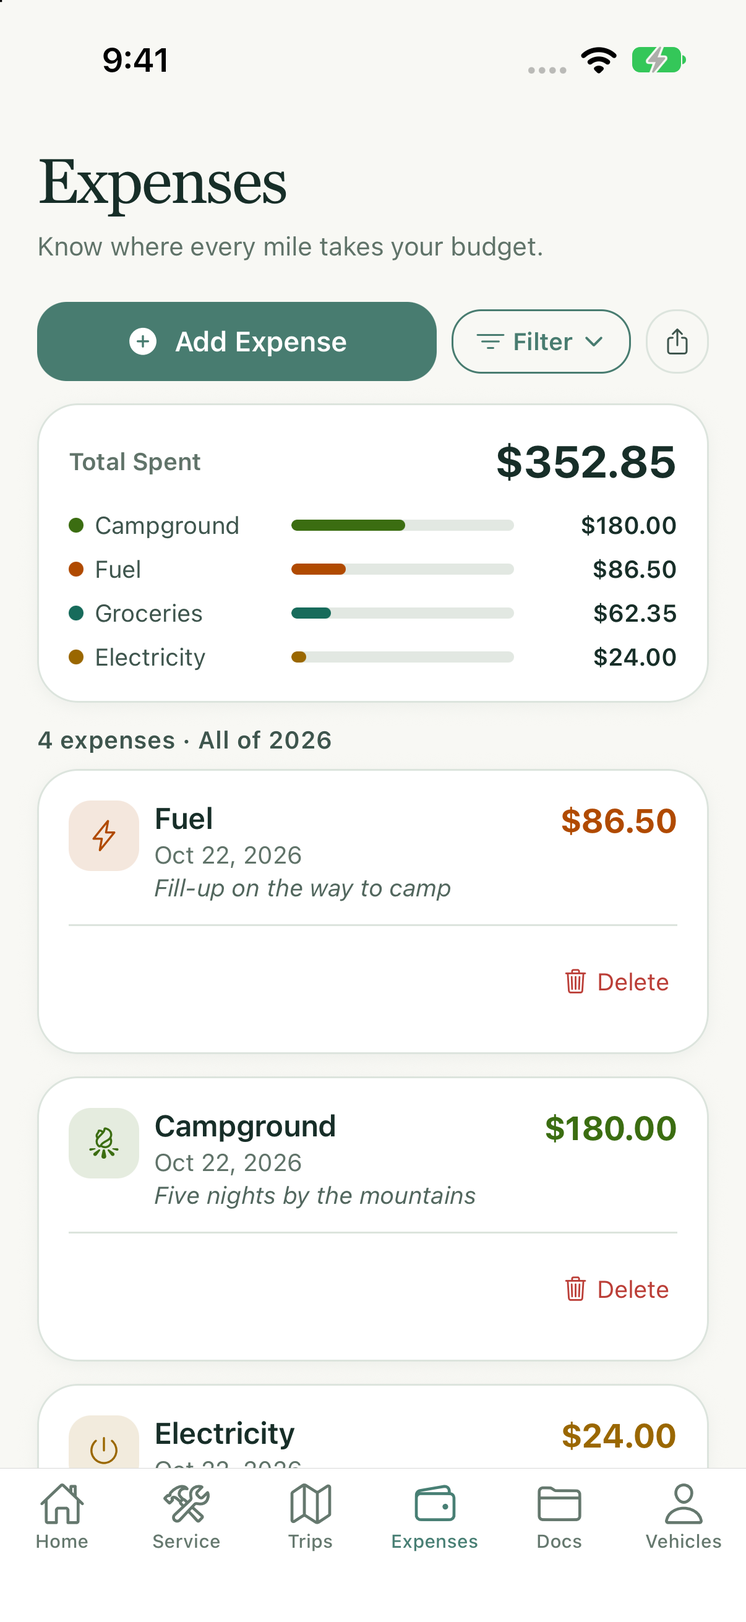
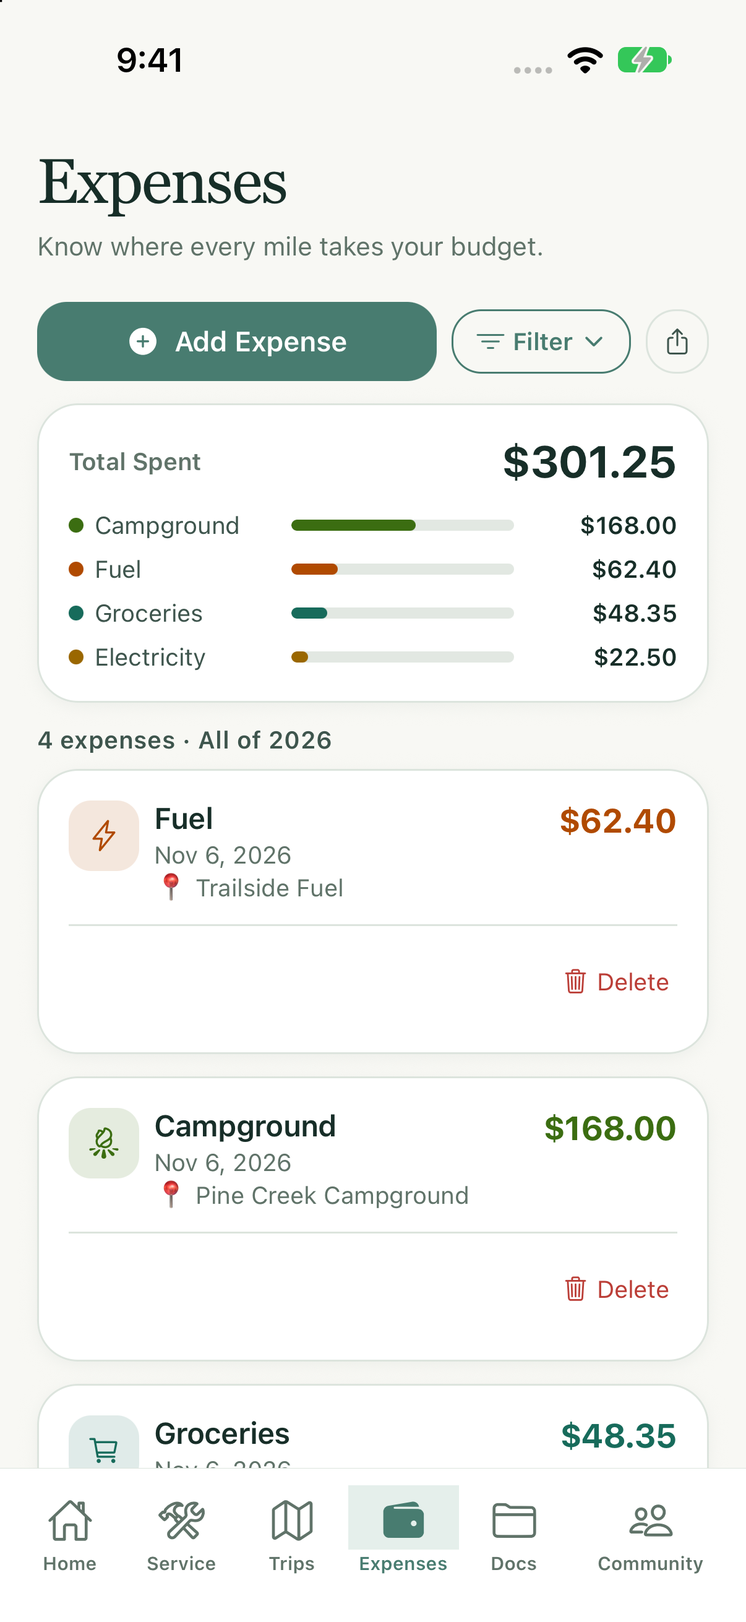
Refresh upcoming release features and screenshots for 10553

diff --git a/index.html b/index.html
@@ -1,16 +1,17 @@
 <!doctype html>
-<html lang="en"><head><meta charset="utf-8"><meta name="viewport" content="width=device-width,initial-scale=1"><meta name="description" content="Meet the next TrekAssistant release: RV maintenance and expense tracking alongside park adventures and trip memories."><title>TrekAssistant — Your rig, organized.</title><link rel="icon" href="assets/icon.png"><link rel="stylesheet" href="style.css?v=20261022d"></head><body>
+<html lang="en"><head><meta charset="utf-8"><meta name="viewport" content="width=device-width,initial-scale=1"><meta name="description" content="Meet the next TrekAssistant release: RV care, AI fuel reading, Park Stories and a Community of travelers."><title>TrekAssistant — Your rig, organized.</title><link rel="icon" href="assets/icon.png"><link rel="stylesheet" href="style.css?v=20261106"></head><body>
 <div class="review">COMING IN THE NEXT RELEASE <span>RV care. Everyday costs. Lasting memories.</span></div>
-<header class="nav"><a class="brand" href="#"><img src="assets/icon.png" alt=""><span>TrekAssistant</span></a><nav aria-label="Main navigation"><a href="#features">The app</a><a href="#stories">Park stories</a><a href="#storage">Your data</a><a href="#pricing">Pricing</a></nav><a class="button small" href="#tour">Take a look <span aria-hidden="true">↗</span></a></header>
+<header class="nav"><a class="brand" href="#"><img src="assets/icon.png" alt=""><span>TrekAssistant</span></a><nav aria-label="Main navigation"><a href="#features">The app</a><a href="#stories">Park stories</a><a href="#community">Community</a><a href="#storage">Your data</a><a href="#pricing">Pricing</a></nav><a class="button small" href="#tour">Take a look <span aria-hidden="true">↗</span></a></header>
 <main>
-<section class="hero"><div class="hero-copy"><p class="eyebrow">THE RV APP FOR LIFE ON THE ROAD</p><div class="hero-benefits" aria-label="Core app features"><span>Maintenance logs</span><span>Expense tracking</span><span>Trip memories</span></div><h1>Care for your rig.<br> <em>Keep the memories.</em></h1><p class="intro">Track maintenance. Know what you spend. Capture the places and moments that make every trip yours—all in one RV app.</p><div class="actions"><a class="button gold" href="#tour">See the app in action <span aria-hidden="true">↗</span></a></div><p class="hero-note">For weekend adventures, long stays, and everywhere in between.</p></div><div class="hero-art"><img class="scenery" src="assets/landscape.jpg" alt="A colorful hot spring beneath a wide blue sky"><div class="hero-screen hero-expense"><span class="screen-tag">KNOW WHAT YOU SPEND</span><div class="phone"><img src="assets/expenses-current.png" alt="TrekAssistant expense tracking with fuel, campground, electricity and grocery costs"></div></div><div class="hero-screen hero-trip"><span class="screen-tag">REMEMBER WHERE YOU’VE BEEN</span><div class="phone"><img src="assets/trips-current.png" alt="A photo-led TrekAssistant trip with park name, site details and the Explore this park challenge"></div></div><div class="floating-note"><span class="sun">✦</span><div><strong>Your service history.<br> Your travel story.</strong><br> One place for both.</div></div></div></section>
+<section class="hero"><div class="hero-copy"><p class="eyebrow">THE RV APP FOR LIFE ON THE ROAD</p><div class="hero-benefits" aria-label="Core app features"><span>Maintenance logs</span><span>Expense tracking</span><span>Trip memories</span></div><h1>Care for your rig.<br> <em>Keep the memories.</em></h1><p class="intro">Track maintenance. Know what you spend. Capture the places and moments that make every trip yours—all in one RV app.</p><div class="actions"><a class="button gold" href="#tour">See the app in action <span aria-hidden="true">↗</span></a></div><p class="hero-note">For weekend adventures, long stays, and everywhere in between.</p></div><div class="hero-art"><img class="scenery" src="assets/landscape.jpg" alt="A colorful hot spring beneath a wide blue sky"><div class="hero-screen hero-expense"><span class="screen-tag">KNOW WHAT YOU SPEND</span><div class="phone"><img src="assets/expenses-current.png?v=20261106" alt="TrekAssistant expense tracking with fuel, campground, electricity and grocery costs"></div></div><div class="hero-screen hero-trip"><span class="screen-tag">REMEMBER WHERE YOU’VE BEEN</span><div class="phone"><img src="assets/trips-current.png?v=20261106" alt="A photo-led TrekAssistant trip with park name, site details and Create a Park Story"></div></div><div class="floating-note"><span class="sun">✦</span><div><strong>Your service history.<br> Your travel story.</strong><br> One place for both.</div></div></div></section>
 <div class="feature-line"><span>Log the maintenance</span><i></i><span>Track the expenses</span><i></i><span>Keep the memories</span></div>
-<section id="features" class="section intro-section"><p class="eyebrow">A LITTLE ORGANIZATION. A LOT MORE FREEDOM.</p><h2>For the rig you rely on.<br> And the trips you live for.</h2><p class="section-intro">A useful record of what your RV needs. A clear picture of what life on the road costs. A personal story of the places you’ve explored.</p><div class="editorial-grid"><article><span class="number">01 / MAINTENANCE</span><h3>Know your rig’s<br> story.</h3><p>Log service, mileage, repairs, and receipts. See what was done and when, set date-based reminders, and keep mileage-based maintenance in view.</p><p class="feature-payoff">A clear history for the miles ahead.</p><a href="#tour" data-select="service">See maintenance logs <span>↗</span></a></article><article><span class="number">02 / EXPENSES</span><h3>Know the cost<br> of the journey.</h3><p>Track fuel, campsites, electricity, groceries, and repairs. Keep receipts with expenses, review category totals, and use recorded fill-ups for fuel insights.</p><p class="feature-payoff">The everyday costs of RV life, in focus.</p><a href="#tour" data-select="expenses">See expense tracking <span>↗</span></a></article><article><span class="number">03 / TRIP MEMORIES</span><h3>Remember why<br> you went.</h3><p>Keep park details and favorite photos with each trip. Explore through photo challenges, replay your stay as a presentation, and share a photo story.</p><p class="feature-payoff">A personal record of the places you love.</p><a href="#tour" data-select="trips">See trips and memories <span>↗</span></a></article></div></section>
-<section id="tour" class="tour section"><div class="tour-copy"><p class="eyebrow">A LOOK INSIDE</p><h2>From the next service<br> to your favorite stay.</h2><p id="tour-description">Open your active trip, log a service, or add an expense from Home. The practical details and your next adventure start in the same place.</p><div class="tabs" role="tablist" aria-label="App screenshots"><button id="tab-home" role="tab" aria-selected="true" aria-controls="screen-panel" data-screen="home">Home <span>01</span></button><button id="tab-service" role="tab" aria-selected="false" tabindex="-1" aria-controls="screen-panel" data-screen="service">Maintenance <span>02</span></button><button id="tab-trips" role="tab" aria-selected="false" tabindex="-1" aria-controls="screen-panel" data-screen="trips">Trips <span>03</span></button><button id="tab-expenses" role="tab" aria-selected="false" tabindex="-1" aria-controls="screen-panel" data-screen="expenses">Expenses <span>04</span></button><button id="tab-documents" role="tab" aria-selected="false" tabindex="-1" aria-controls="screen-panel" data-screen="documents">Documents <span>05</span></button></div><p class="caption">App screens use sample records. Tap the screen to enlarge.</p></div><div id="screen-panel" role="tabpanel" aria-labelledby="tab-home" class="screen-stage"><span class="stage-label">YOUR RIG, ORGANIZED.</span><button class="screen-button" id="enlarge" aria-label="Enlarge Home screenshot"><span class="phone"><img id="screen-image" src="assets/home-current.png" alt="TrekAssistant Home screen with sample records" loading="lazy"></span><span class="enlarge-label">View full screen ↗</span></button></div></section>
-<section id="stories" class="story section"><div class="story-image"><img src="assets/landscape.jpg" alt="A vivid landscape to discover on your next adventure" loading="lazy"><div class="story-overlay"><p class="eyebrow">TAKE THE PARK CHALLENGE</p><h2>Be there now.<br> Revisit it later.</h2></div></div><div class="story-copy"><p class="eyebrow">EXPLORE. CAPTURE. SHARE.</p><h2>Your favorite places.<br> Your own story.</h2><p>Keep your site number, arrival times, gate hours, and access code handy. Then head out, find a view, and capture what makes this park special—while you’re there.</p><ul class="plain-list"><li><span>01</span>Take on photo challenges as you explore: a trail, a view, a nature discovery, or a park highlight.</li><li><span>02</span>Keep the discoveries with the trip, then replay the visit as an in-app photo presentation.</li><li><span>03</span>Share the moments you choose. Select the photos and park details to include in a photo-story image before opening your phone’s share options.</li></ul><p class="fine">You choose the destination and complete the post yourself. Presentation playback stays in the app; shared stories are still images.</p></div></section>
+<section id="features" class="section intro-section"><p class="eyebrow">A LITTLE ORGANIZATION. A LOT MORE FREEDOM.</p><h2>For the rig you rely on.<br> And the trips you live for.</h2><p class="section-intro">A useful record of what your RV needs. A clear picture of what life on the road costs. A personal story of the places you’ve explored.</p><div class="editorial-grid"><article><span class="number">01 / MAINTENANCE</span><h3>Know your rig’s<br> story.</h3><p>Log service, mileage, repairs, and receipts. See what was done and when, set date-based reminders, and keep mileage-based maintenance in view.</p><p class="feature-payoff">A clear history for the miles ahead.</p><a href="#tour" data-select="service">See maintenance logs <span>↗</span></a></article><article><span class="number">02 / EXPENSES</span><h3>Know the cost<br> of the journey.</h3><p>Track fuel, campsites, electricity, groceries, and repairs. Scan a pump display or fuel receipt with AI, check the readings, and keep the receipt with your expense. Review category totals and use recorded fill-ups for fuel insights.</p><p class="feature-payoff">The everyday costs of RV life, in focus.</p><a href="#tour" data-select="expenses">See expense tracking <span>↗</span></a></article><article><span class="number">03 / TRIP MEMORIES</span><h3>Remember why<br> you went.</h3><p>Keep park details and favorite photos with each trip. Explore through photo challenges, replay your stay as a presentation, and share a photo story.</p><p class="feature-payoff">A personal record of the places you love.</p><a href="#tour" data-select="trips">See trips and memories <span>↗</span></a></article></div></section>
+<section id="tour" class="tour section"><div class="tour-copy"><p class="eyebrow">A LOOK INSIDE</p><h2>From the next service<br> to your favorite stay.</h2><p id="tour-description">Open your active trip, log a service, or add an expense from Home. The practical details and your next adventure start in the same place.</p><div class="tabs" role="tablist" aria-label="App screenshots"><button id="tab-home" role="tab" aria-selected="true" aria-controls="screen-panel" data-screen="home">Home <span>01</span></button><button id="tab-service" role="tab" aria-selected="false" tabindex="-1" aria-controls="screen-panel" data-screen="service">Maintenance <span>02</span></button><button id="tab-trips" role="tab" aria-selected="false" tabindex="-1" aria-controls="screen-panel" data-screen="trips">Trips <span>03</span></button><button id="tab-expenses" role="tab" aria-selected="false" tabindex="-1" aria-controls="screen-panel" data-screen="expenses">Expenses <span>04</span></button><button id="tab-documents" role="tab" aria-selected="false" tabindex="-1" aria-controls="screen-panel" data-screen="documents">Documents <span>05</span></button><button id="tab-fuel" role="tab" aria-selected="false" tabindex="-1" aria-controls="screen-panel" data-screen="fuel">AI fuel <span>06</span></button><button id="tab-community" role="tab" aria-selected="false" tabindex="-1" aria-controls="screen-panel" data-screen="community">Community <span>07</span></button><button id="tab-story" role="tab" aria-selected="false" tabindex="-1" aria-controls="screen-panel" data-screen="story">Park Stories <span>08</span></button></div><p class="caption">App screens use sample records. Tap the screen to enlarge.</p></div><div id="screen-panel" role="tabpanel" aria-labelledby="tab-home" class="screen-stage"><span class="stage-label">YOUR RIG, ORGANIZED.</span><button class="screen-button" id="enlarge" aria-label="Enlarge Home screenshot"><span class="phone"><img id="screen-image" src="assets/home-current.png?v=20261106" alt="TrekAssistant Home screen with sample records" loading="lazy"></span><span class="enlarge-label">View full screen ↗</span></button></div></section>
+<section id="stories" class="story section"><div class="story-image"><img src="assets/landscape.jpg" alt="A vivid landscape to discover on your next adventure" loading="lazy"><div class="story-overlay"><p class="eyebrow">CREATE A PARK STORY</p><h2>Be there now.<br> Revisit it later.</h2></div></div><div class="story-copy"><p class="eyebrow">EXPLORE. CAPTURE. SHARE.</p><h2>Your favorite places.<br> Your own story.</h2><p>Keep your site number, arrival times, gate hours, and access code handy. Then head out, find a view, and capture what makes this park special—while you’re there.</p><ul class="plain-list"><li><span>01</span>Take on photo challenges as you explore: a trail, a view, a nature discovery, or a park highlight.</li><li><span>02</span>Choose and arrange your photos, add captions, and preview your Park Story. Save a private draft or publish with at least four different photos.</li><li><span>03</span>Share a story link with friends or publish it in Community. Swipe through the photos and choose your playback speed in the app or shared browser viewer.</li></ul><p class="fine">You choose what to publish. Comments and replies stay inside the app and are not included in the shared story viewer.</p></div></section>
+<section id="community" class="documents section"><div><p class="eyebrow">GOOD COMPANY FOR THE ROAD</p><h2>Around the campfire.<br> Beyond your campsite.</h2><p>Ask a question, share a tip, or celebrate a new discovery. Campfire Talk brings travelers together through photo posts, comments and threaded replies. Tap photos for a closer look, follow creators, and see new activity from Home.</p><p>Want to continue one-to-one? Send a private message. You can manage your own posts and stories, report concerns, and control whose content you see.</p><a class="text-link dark" href="#tour" data-select="community">See Community ↗</a><p class="fine">Community and private messages need an online account, even when your private library is stored only on your phone. AI fuel reading sends your chosen photo to OpenAI and needs a connection. Always check the results before saving.</p></div><div class="screen-stage"><span class="stage-label">SHARE THE ROAD</span><span class="phone"><img src="assets/community-current.png?v=20261106" alt="TrekAssistant Community with sample Park Stories and Campfire Talk posts" loading="lazy"></span></div></section>
 <section class="documents section"><div><p class="eyebrow">READY WHEN YOU NEED THEM</p><h2>Your RV paperwork,<br> ready for the road.</h2><p>Give registration, insurance, manuals, and receipts a place beside your vehicle records. Pin what you reach for most and set expiration reminders, so you spend less time searching when it’s time to go.</p><a class="text-link dark" href="#tour" data-select="documents">Open a closer look ↗</a></div><div class="document-list" aria-label="Document feature examples"><div><span class="doc-symbol">↗</span><span><strong>Pinned essentials</strong><small>Your important documents, first.</small></span><span class="mini-tag">CLOSE AT HAND</span></div><div><span class="doc-symbol">◷</span><span><strong>Expiration reminders</strong><small>Choose the date and how early to be reminded.</small></span></div><div><span class="doc-symbol">＋</span><span><strong>Your way to save</strong><small>Photos, PDFs, or useful links.</small></span></div><p class="fine">Pins and expiration reminder settings are saved on this phone.</p></div></section>
 <section id="storage" class="storage section"><p class="eyebrow">YOUR RECORDS. YOUR MEMORIES. YOUR CHOICE.</p><h2>Keep them your way.</h2><p class="section-intro">Your service history, expenses, and trip memories belong together. Choose phone-only storage or keep a private cloud copy too. Your subscription covers your access across devices, whichever option you choose.</p><div class="storage-options"><article><span class="option-icon">◫</span><h3>On this phone</h3><p>Your library stays in the app on this device. Use saved records offline, without a cloud account.</p><p class="fine">Other devices won’t automatically receive your changes. Keep a copy of anything you can’t replace.</p></article><article><span class="option-icon">☁</span><h3>Phone + cloud</h3><p>Keep a local library and a private cloud copy. Supported records and files update while the app is open and connected.</p><p class="fine">Updates need connectivity. Some larger attachments stay on your phone. Keep an extra copy of important files.</p></article></div></section>
-<section id="pricing" class="pricing section"><div><p class="eyebrow">ONE APP FOR YOUR RV LIFE</p><h2>Your RV’s history.<br> Your life on the road.</h2><p>From an oil change to a campground receipt to a favorite trail: one subscription brings the useful records and memorable moments together.</p></div><div class="price-box"><p class="eyebrow">NEXT RELEASE · MONTHLY</p><div class="price">$6.99<span>/ month</span></div><p class="currency">USD · subscription through Apple</p><ul class="check-list"><li>Maintenance logs, receipts and date-based reminders</li><li>Expense tracking, category totals and fuel insights</li><li>Trip photos, park challenges and shared photo stories</li><li>Documents, pins and expiration reminders</li><li>Phone-only or phone + cloud storage</li></ul><a class="button gold" href="https://apps.apple.com/us/app/trekassistant/id6776824864" target="_blank" rel="noopener">View current App Store listing ↗</a><p class="fine">14-day free trial for eligible subscribers. Final pricing, trial eligibility, renewal terms, and cancellation options are shown by Apple before purchase.</p><p class="release-note">These features and monthly pricing are coming in the next TrekAssistant release. The version currently on the App Store may differ.</p></div></section>
+<section id="pricing" class="pricing section"><div><p class="eyebrow">ONE APP FOR YOUR RV LIFE</p><h2>Your RV’s history.<br> Your life on the road.</h2><p>From an oil change to a campground receipt to a favorite trail: one subscription brings the useful records and memorable moments together.</p></div><div class="price-box"><p class="eyebrow">NEXT RELEASE · MONTHLY</p><div class="price">$6.99<span>/ month</span></div><p class="currency">USD · subscription through Apple</p><ul class="check-list"><li>Maintenance logs, receipts and date-based reminders</li><li>Expense tracking, AI fuel reading and fuel insights</li><li>Trip photos, Park Stories and playable story links</li><li>Campfire Talk, comments, replies and private messages</li><li>Documents, pins and expiration reminders</li><li>Phone-only or phone + cloud storage</li></ul><a class="button gold" href="https://apps.apple.com/us/app/trekassistant/id6776824864" target="_blank" rel="noopener">View current App Store listing ↗</a><p class="fine">14-day free trial for eligible subscribers. Final pricing, trial eligibility, renewal terms, and cancellation options are shown by Apple before purchase.</p><p class="release-note">These features and monthly pricing are coming in the next TrekAssistant release. The version currently on the App Store may differ.</p></div></section>
 <section class="closing"><p class="eyebrow">YOUR NEXT STOP IS WAITING.</p><h2>Care for the rig.<br> <em>Remember the journey.</em></h2><a class="button light" href="#tour">See how it all comes together ↗</a></section>
 </main><footer><a class="brand" href="#"><img src="assets/icon.png" alt=""><span>TrekAssistant</span></a><p>RV care. Everyday costs. Lasting memories.</p><div><a href="https://content.trekassistant.com/privacy.html">Privacy Policy</a><a href="https://content.trekassistant.com/terms.html">Terms of Use</a><a href="mailto:info@trekassistant.com">Contact</a></div><small>© 2026 NeptiTech · TrekAssistant</small></footer>
-<dialog id="viewer" aria-labelledby="viewer-title"><div class="viewer-top"><h2 id="viewer-title">Home</h2><button id="close-viewer" aria-label="Close screenshot">Close ✕</button></div><img id="full-image" src="assets/home-current.png" alt="Enlarged TrekAssistant Home screen"></dialog><script src="site.js?v=20261022d"></script></body></html>
+<dialog id="viewer" aria-labelledby="viewer-title"><div class="viewer-top"><h2 id="viewer-title">Home</h2><button id="close-viewer" aria-label="Close screenshot">Close ✕</button></div><img id="full-image" src="assets/home-current.png?v=20261106" alt="Enlarged TrekAssistant Home screen"></dialog><script src="site.js?v=20261106"></script></body></html>

diff --git a/style.css b/style.css
@@ -1,5 +1,5 @@
 :root{--forest:#183c32;--ink:#18372e;--green:#477e70;--cream:#f8f7f1;--sage:#e5ece2;--gold:#edbd64;--muted:#5d7168;--border:#d5ded3}*{box-sizing:border-box}html{scroll-behavior:smooth;scroll-padding-top:100px}body{margin:0;color:var(--ink);background:var(--cream);font:16px/1.65 -apple-system,BlinkMacSystemFont,'Segoe UI',sans-serif}a{color:inherit;text-decoration:none}button{font:inherit;cursor:pointer}a,button{-webkit-tap-highlight-color:transparent}button:focus-visible,a:focus-visible,summary:focus-visible{outline:3px solid #bd7f1b;outline-offset:5px}img{max-width:100%;display:block}h1,h2,h3,p{margin:0}h1,h2,h3{font-family:Georgia,'Times New Roman',serif;font-weight:400;letter-spacing:-.045em;line-height:1.06}h1{font-size:clamp(54px,5.5vw,83px)}h2{font-size:clamp(38px,4.4vw,62px)}h3{font-size:34px}em{font-weight:400;color:var(--gold)}.review{background:#e8d8b8;color:#4f442d;text-align:center;font-size:10px;letter-spacing:1.5px;padding:7px 14px;font-weight:750}.review span{font-weight:400;letter-spacing:.3px;margin-left:16px}.nav{height:95px;max-width:1360px;margin:auto;padding:0 5%;display:flex;align-items:center;justify-content:space-between;gap:25px}.brand{display:flex;gap:10px;align-items:center;font:25px Georgia,serif;letter-spacing:-1px;white-space:nowrap}.brand img{width:39px;height:39px;border-radius:10px}.nav nav{display:flex;gap:26px;font-size:13px}.nav nav a:hover{color:var(--green)}.button{display:inline-flex;align-items:center;justify-content:center;gap:25px;padding:16px 24px;background:var(--forest);color:white;border-radius:5px;font-size:14px;font-weight:650}.small{padding:11px 18px;gap:15px}.gold{color:var(--forest);background:var(--gold)}.light{background:var(--cream);color:var(--forest)}.hero{max-width:1360px;margin:auto;display:grid;grid-template-columns:1.1fr 1fr;min-height:740px;background:var(--forest);color:var(--cream);overflow:hidden;border-radius:7px}.hero-copy{padding:72px 9% 60px 11%;align-self:center;z-index:1}.eyebrow{font-size:10px;letter-spacing:2px;font-weight:750;margin-bottom:25px}.hero .eyebrow{color:#bdcdbb}.hero .intro{color:#d2ded2;font-size:16px;max-width:390px;margin:26px 0 30px}.actions{display:flex;gap:22px;align-items:center;flex-wrap:wrap}.text-link{font-size:13px;font-weight:600}.text-link:hover{text-decoration:underline}.hero-note{font-size:11px;color:#b6c9bc;margin-top:30px}.hero-art{position:relative;min-height:740px;isolation:isolate}.scenery{position:absolute;width:100%;height:100%;object-fit:cover;filter:brightness(.72) saturate(.85)}.hero-art:before{content:'';position:absolute;inset:0;background:linear-gradient(90deg,var(--forest),transparent 40%);z-index:1}.phone{display:block;width:252px;background:#18251f;padding:7px;border:2px solid #7d8e7b;border-radius:39px;box-shadow:0 25px 55px #0a231e44;overflow:hidden}.phone img{width:100%;border-radius:30px}.hero-phone{position:absolute;top:64px;left:20%;z-index:2;transform:rotate(5deg);width:270px}.floating-note{position:absolute;left:0;bottom:73px;background:var(--cream);color:var(--forest);z-index:3;display:flex;gap:16px;align-items:center;padding:18px 30px;box-shadow:0 12px 40px #142d2433;font-size:13px;line-height:1.5;border-radius:6px}.floating-note strong{font-weight:600}.sun{color:#b37b20;font-size:37px}.feature-line{max-width:1200px;margin:0 auto;padding:25px 0;display:flex;gap:26px;align-items:center;justify-content:center;border-bottom:1px solid var(--border);color:var(--muted);font-size:11px}.feature-line i{height:4px;width:4px;border-radius:50%;background:var(--green)}.section{max-width:1200px;margin:auto;padding:100px 35px}.intro-section{padding-top:100px}.section-intro{max-width:510px;color:var(--muted);font-size:16px;margin-top:25px}.editorial-grid{display:grid;grid-template-columns:repeat(3,1fr);gap:54px;margin-top:65px}.editorial-grid article{border-top:1px solid var(--green);padding-top:22px}.number{display:block;font-size:10px;color:var(--green);font-weight:700;letter-spacing:1.8px;margin-bottom:25px}.editorial-grid h3{margin-bottom:22px}.editorial-grid p{font-size:14px;color:var(--muted);margin-bottom:27px}.editorial-grid a{font-size:12px;font-weight:650;display:flex;justify-content:space-between}.tour{background:var(--sage);display:grid;grid-template-columns:1fr 1fr;gap:80px;max-width:1360px;border-radius:8px;padding:80px max(6%,35px)}.tour-copy{max-width:400px;align-self:center}.tour-copy>p:not(.eyebrow){color:var(--muted);font-size:14px;margin-top:24px}.tabs{display:flex;flex-direction:column;margin-top:30px}.tabs button{border:0;border-top:1px solid #b8c9b9;background:transparent;text-align:left;display:flex;justify-content:space-between;padding:13px 10px;color:var(--muted);font-size:14px}.tabs button[aria-selected=true]{color:var(--forest);font-weight:750;background:#f8f7f180;border-left:3px solid var(--green)}.tabs span{font-size:10px;align-self:center}.tour-copy .caption{font-size:10px;letter-spacing:.3px}.screen-stage{text-align:center;display:flex;align-items:center;justify-content:center;flex-direction:column}.stage-label{font-size:9px;font-weight:600;letter-spacing:2px;margin-bottom:23px}.screen-button{background:none;border:0;color:var(--green);padding:0}.screen-button .phone{width:249px}.enlarge-label{display:block;margin-top:22px;font-size:11px}.story{display:grid;grid-template-columns:1fr 1fr;gap:90px;align-items:center;padding-top:120px}.story-image{position:relative;min-height:600px;align-self:stretch;border-radius:5px;overflow:hidden}.story-image>img{position:absolute;width:100%;height:100%;object-fit:cover}.story-image:after{content:'';position:absolute;inset:0;background:linear-gradient(0deg,#0e302bd9,transparent 90%)}.story-overlay{position:absolute;left:35px;bottom:40px;z-index:1;color:white}.story-overlay .eyebrow{color:#e0c181;font-size:9px}.story-copy>p:not(.eyebrow){font-size:14px;color:var(--muted);margin-top:25px}.plain-list{list-style:none;padding:0;margin:30px 0}.plain-list li{display:flex;gap:18px;font-size:13px;border-top:1px solid var(--border);padding:18px 0}.plain-list span{font-size:10px;color:var(--green);padding-top:3px}.fine{font-size:11px!important;color:var(--muted);line-height:1.7}.documents{display:grid;grid-template-columns:1fr 1fr;gap:90px;border-top:1px solid var(--border);align-items:center}.documents>div>p:not(.eyebrow){font-size:14px;color:var(--muted);margin:24px 0}.document-list>div{display:flex;gap:17px;align-items:center;padding:22px 0;border-bottom:1px solid var(--border)}.doc-symbol{background:var(--sage);font-size:26px;width:48px;height:52px;text-align:center;line-height:52px;border-radius:6px}.document-list strong{font-size:14px;font-weight:600;display:block}.document-list small{font-size:11px;display:block;color:var(--muted);margin-top:4px}.mini-tag{font-size:7px;letter-spacing:1px;background:#ebdeb9;padding:5px 7px;margin-left:auto;white-space:nowrap}.storage{background:#ecefe7;max-width:1360px;text-align:center;border-radius:8px;padding:85px 9%}.storage .section-intro{margin:25px auto 0}.storage-options{display:grid;grid-template-columns:1fr 1fr;gap:45px;max-width:850px;margin:55px auto 0;text-align:left}.storage-options article{padding-top:27px;border-top:1px solid #a7bca9}.option-icon{font-size:32px;display:block;margin-bottom:13px}.storage-options h3{font-size:29px}.storage-options p{font-size:14px;color:var(--muted);margin-top:17px}.pricing{display:grid;grid-template-columns:1fr 1fr;gap:100px;align-items:center;padding-top:120px;padding-bottom:120px}.pricing>div>p:not(.eyebrow){color:var(--muted);font-size:15px;margin-top:25px;max-width:350px}.price-box{border:1px solid #becfbf;padding:40px;border-radius:7px;background:#fffefa}.price{font-size:64px;letter-spacing:-3px;font-family:Georgia,serif;line-height:1}.price span{font:14px -apple-system,BlinkMacSystemFont,sans-serif;letter-spacing:0;color:var(--muted)}.price-box .currency{font-size:10px;margin-top:13px}.check-list{list-style:none;padding:24px 0 16px;font-size:12px;line-height:2.4;border-top:1px solid var(--border);margin-top:25px}.check-list li:before{content:'✓';color:var(--green);margin-right:12px}.price-box .button{width:100%;font-size:12px}.price-box p.fine{margin-top:20px}.price-box .release-note{font-size:10px;color:var(--muted);border-top:1px solid var(--border);padding-top:16px;margin-top:18px}.closing{background:var(--forest);color:var(--cream);padding:90px 25px;text-align:center}.closing h2{font-size:clamp(36px,4vw,59px);line-height:1.16}.closing .eyebrow{color:#bfcebc}.closing .button{margin-top:33px}footer{max-width:1200px;margin:auto;padding:45px 35px;display:grid;grid-template-columns:1fr auto;gap:12px;align-items:center}footer .brand{font-size:23px}footer>p{color:var(--muted);font-size:12px;grid-column:1}footer>div{display:flex;gap:22px;font-size:11px;grid-column:2;grid-row:1/3}footer small{font-size:9px;color:var(--muted);grid-column:1/-1;margin-top:20px}dialog{border:0;border-radius:12px;padding:20px;background:var(--cream);max-width:min(95vw,650px);max-height:94vh;overflow:auto;box-shadow:0 30px 90px #0005}dialog::backdrop{background:#10291ee8}.viewer-top{display:flex;align-items:center;justify-content:space-between;gap:30px;margin-bottom:20px;position:sticky;top:-20px;background:var(--cream);padding:15px 0}.viewer-top h2{font-size:25px}.viewer-top button{background:none;border:1px solid var(--border);padding:7px 13px;border-radius:5px;color:var(--ink);font-size:12px}dialog>img{max-height:none;width:min(100%,420px);margin:auto}
-@media(min-width:1600px){.hero{margin-top:10px}}@media(max-width:1000px){.nav nav{gap:15px}.hero-copy{padding:65px 30px}.hero-art{min-height:700px}.hero-phone{left:10%;width:245px}.hero{min-height:700px}.floating-note{left:-15px;bottom:55px;padding:15px 20px}.editorial-grid{gap:28px}.tour,.story,.documents,.pricing{gap:40px}.mini-tag{display:none}.tour{padding:60px 5%}.section{padding-left:30px;padding-right:30px}}@media(max-width:700px){.nav{height:78px;padding:0 20px}.brand{font-size:21px}.brand img{width:32px;height:32px}.nav nav{display:none}.nav .button{font-size:11px;padding:9px 12px;gap:10px}.review{font-size:8px}.review span{display:none}.hero{display:flex;flex-direction:column;border-radius:0}.hero-copy{padding:48px 25px 34px}.hero h1{font-size:57px}.hero .intro{font-size:15px;max-width:340px}.hero .eyebrow{font-size:8px}.hero-note{font-size:10px;margin-top:23px}.hero-art{min-height:520px;overflow:hidden}.hero-phone{top:20px;left:calc(50% - 112px);width:225px;transform:rotate(5deg)}.hero-art:before{background:linear-gradient(var(--forest),transparent 40%)}.floating-note{left:17px;bottom:35px;padding:13px 18px}.feature-line{padding:19px 20px;gap:12px;font-size:8px;text-align:center}.feature-line i{flex-shrink:0}.section{padding:65px 24px}.section h2{font-size:43px}.editorial-grid{grid-template-columns:1fr;gap:34px;margin-top:40px}.editorial-grid h3 br{display:none}.editorial-grid h3{font-size:31px;margin-bottom:14px}.number{margin-bottom:14px}.editorial-grid p{margin-bottom:18px}.editorial-grid a{max-width:260px}.tour{grid-template-columns:1fr;gap:35px;border-radius:0}.tour-copy{max-width:none}.tour .tabs{display:flex;flex-direction:row;overflow:auto;gap:4px;padding-bottom:4px}.tabs button{padding:10px 11px;border-top:0;border-bottom:1px solid #aec1ad;flex-shrink:0;font-size:11px}.tabs button[aria-selected=true]{border-left:0;border-bottom:3px solid var(--green)}.tabs span{display:none}.tour-copy .caption{font-size:10px}.screen-button .phone{width:235px}.story,.documents,.pricing{grid-template-columns:1fr;gap:38px}.story-image{min-height:460px}.story-overlay h2{font-size:51px}.story-copy h2 br{display:none}.documents{gap:20px}.storage{border-radius:0}.storage-options{grid-template-columns:1fr;gap:32px;margin-top:30px}.storage-options article{padding-top:20px}.pricing{gap:35px}.price-box{padding:28px}.closing{padding:65px 20px}.closing h2{font-size:36px}footer{display:flex;flex-wrap:wrap;padding:35px 24px;gap:15px}footer .brand{width:100%}footer>p{width:100%}footer>div{display:flex;flex-wrap:wrap;gap:17px}footer small{width:100%}.mini-tag{display:none}}@media(prefers-reduced-motion:reduce){html{scroll-behavior:auto}}
+@media(min-width:1600px){.hero{margin-top:10px}}@media(max-width:1000px){.nav nav{gap:15px}.hero-copy{padding:65px 30px}.hero-art{min-height:700px}.hero-phone{left:10%;width:245px}.hero{min-height:700px}.floating-note{left:-15px;bottom:55px;padding:15px 20px}.editorial-grid{gap:28px}.tour,.story,.documents,.pricing{gap:40px}.mini-tag{display:none}.tour{padding:60px 5%}.section{padding-left:30px;padding-right:30px}}@media(max-width:700px){.nav{height:78px;padding:0 20px}.brand{font-size:21px}.brand img{width:32px;height:32px}.nav nav{display:none}.nav .button{font-size:11px;padding:9px 12px;gap:10px}.review{font-size:8px}.review span{display:none}.hero{display:flex;flex-direction:column;border-radius:0}.hero-copy{padding:48px 25px 34px}.hero h1{font-size:57px}.hero .intro{font-size:15px;max-width:340px}.hero .eyebrow{font-size:8px}.hero-note{font-size:10px;margin-top:23px}.hero-art{min-height:520px;overflow:hidden}.hero-phone{top:20px;left:calc(50% - 112px);width:225px;transform:rotate(5deg)}.hero-art:before{background:linear-gradient(var(--forest),transparent 40%)}.floating-note{left:17px;bottom:35px;padding:13px 18px}.feature-line{padding:19px 20px;gap:12px;font-size:8px;text-align:center}.feature-line i{flex-shrink:0}.section{padding:65px 24px}.section h2{font-size:43px}.editorial-grid{grid-template-columns:1fr;gap:34px;margin-top:40px}.editorial-grid h3 br{display:none}.editorial-grid h3{font-size:31px;margin-bottom:14px}.number{margin-bottom:14px}.editorial-grid p{margin-bottom:18px}.editorial-grid a{max-width:260px}.tour{grid-template-columns:1fr;gap:35px;border-radius:0}.tour-copy{max-width:none}.tour .tabs{display:flex;flex-direction:row;flex-wrap:wrap;gap:4px;padding-bottom:4px}.tabs button{padding:10px 11px;border-top:0;border-bottom:1px solid #aec1ad;flex-shrink:0;font-size:11px}.tabs button[aria-selected=true]{border-left:0;border-bottom:3px solid var(--green)}.tabs span{display:none}.tour-copy .caption{font-size:10px}.screen-button .phone{width:235px}.story,.documents,.pricing{grid-template-columns:1fr;gap:38px}.story-image{min-height:460px}.story-overlay h2{font-size:51px}.story-copy h2 br{display:none}.documents{gap:20px}.storage{border-radius:0}.storage-options{grid-template-columns:1fr;gap:32px;margin-top:30px}.storage-options article{padding-top:20px}.pricing{gap:35px}.price-box{padding:28px}.closing{padding:65px 20px}.closing h2{font-size:36px}footer{display:flex;flex-wrap:wrap;padding:35px 24px;gap:15px}footer .brand{width:100%}footer>p{width:100%}footer>div{display:flex;flex-wrap:wrap;gap:17px}footer small{width:100%}.mini-tag{display:none}}@media(prefers-reduced-motion:reduce){html{scroll-behavior:auto}}
 /* Keep long tab strips and serif headings within narrow phone layouts. */
 .hero-copy,.tour-copy,.screen-stage,.story-copy,.documents>div,.pricing>div{min-width:0}
 @media(max-width:700px){.hero h1{font-size:clamp(40px,11vw,57px)}.tabs{max-width:100%}.nav{gap:10px}.nav .button{white-space:nowrap}.tour{grid-template-columns:minmax(0,1fr)}}

diff --git a/site.js b/site.js
@@ -1,4 +1,7 @@
-const screens={home:{title:'Home',image:'assets/home-current.png',description:'Open your active trip, log a service, or add an expense from Home. The practical details and your next adventure start in the same place.'},service:{title:'Maintenance',image:'assets/service-current.png',description:'Give your rig a useful history. Keep service dates, mileage, repairs and receipts together, with date-based reminders for what comes next.'},trips:{title:'Trips',image:'assets/trips-current.png',description:'A place for the stay and its story. Keep arrival details, park photos and discoveries together, with active and upcoming trips easy to find.'},expenses:{title:'Expenses',image:'assets/expenses-current.png',description:'See what life on the road costs. Log fuel, campground fees, groceries and electricity, attach receipts, and compare spending by category.'},documents:{title:'Documents',image:'assets/documents-current.png',description:'Find the paperwork when it matters. Keep photos, PDFs and links, pin essential documents, and set expiration reminders on your phone.'}};
+const screens={home:{title:'Home',image:'assets/home-current.png?v=20261106',description:'Open your active trip, log a service, or add an expense from Home. The practical details and your next adventure start in the same place.'},service:{title:'Maintenance',image:'assets/service-current.png?v=20261106',description:'Give your rig a useful history. Keep service dates, mileage, repairs and receipts together, with date-based reminders for what comes next.'},trips:{title:'Trips',image:'assets/trips-current.png?v=20261106',description:'A place for the stay and its story. Keep arrival details, park photos and discoveries together, with active and upcoming trips easy to find.'},expenses:{title:'Expenses',image:'assets/expenses-current.png?v=20261106',description:'See what life on the road costs. Log fuel, campground fees, groceries and electricity, attach receipts, and compare spending by category.'},documents:{title:'Documents',image:'assets/documents-current.png?v=20261106',description:'Find the paperwork when it matters. Keep photos, PDFs and links, pin essential documents, and set expiration reminders on your phone.'}};
+screens.fuel={title:'AI fuel reading',image:'assets/fuel-current.png?v=20261106',description:'Photograph a pump display or fuel receipt. AI helps read the values; check, correct or swap them before saving. AI reading needs a connection and sends your chosen photo to OpenAI.'};
+screens.community={title:'Community',image:'assets/community-current.png?v=20261106',description:'Find Park Stories and Campfire Talk in one place. Share photos, ask questions, add comments and replies, and connect through private messages.'};
+screens.story={title:'Park Stories',image:'assets/story-current.png?v=20261106',description:'Turn a stay into a story. Choose your photos and captions, swipe to browse and set your playback speed. Shared story links play in a browser without comments or replies.'};
 let current='home';const tabs=[...document.querySelectorAll('[data-screen]')],viewer=document.querySelector('#viewer');
 function selectScreen(key,focus=false){const screen=screens[key];if(!screen)return;current=key;tabs.forEach(tab=>{const active=tab.dataset.screen===key;tab.setAttribute('aria-selected',String(active));tab.tabIndex=active?0:-1;if(active&&focus)tab.focus();});document.querySelector('#screen-image').src=screen.image;document.querySelector('#screen-image').alt=`TrekAssistant ${screen.title} screen with sample records`;document.querySelector('#tour-description').textContent=screen.description;document.querySelector('#screen-panel').setAttribute('aria-labelledby',`tab-${key}`);document.querySelector('#enlarge').setAttribute('aria-label',`Enlarge ${screen.title} screenshot`);}
 tabs.forEach((tab,index)=>{tab.addEventListener('click',()=>selectScreen(tab.dataset.screen));tab.addEventListener('keydown',event=>{let next=index;if(event.key==='ArrowRight')next=(index+1)%tabs.length;else if(event.key==='ArrowLeft')next=(index+tabs.length-1)%tabs.length;else if(event.key==='Home')next=0;else if(event.key==='End')next=tabs.length-1;else return;event.preventDefault();selectScreen(tabs[next].dataset.screen,true);});});
